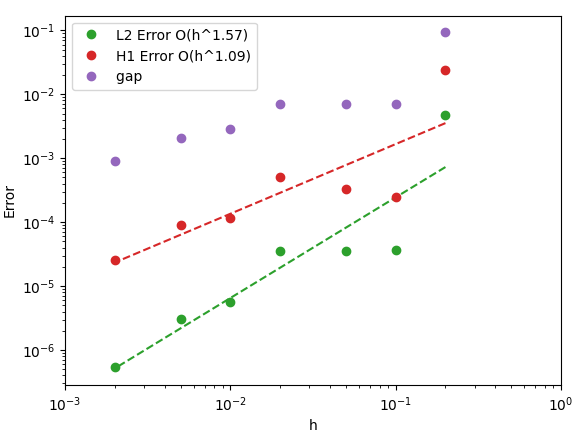
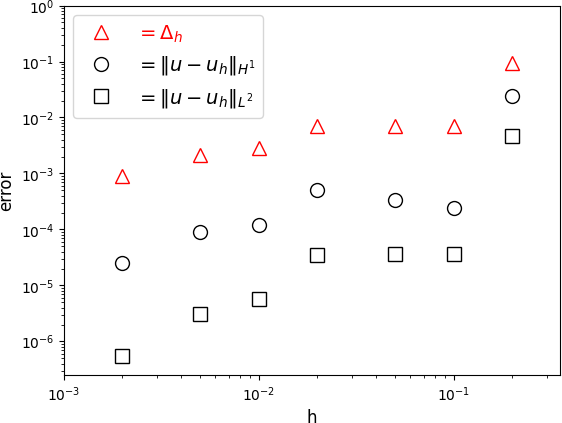
examples/parabola1d.py generates Figure 2 (right)

diff --git a/paper/viamr.tex b/paper/viamr.tex
@@ -123,21 +123,20 @@ be the admissible subset, closed and convex in $\cX$.  For $f\in L^2(\Omega)$, t
 \int_\Omega \nabla u \cdot \nabla(v - u) \ge \int_\Omega f(v - u) \quad \text{ for all } v \in \cK.
 \end{equation}
 
-Section \ref{sec:vifem} will recall some of the theory of such VIs, and of their finite element (FE) approximation.  However, we will generalize from elliptic bilinear forms, as in \eqref{eq:classical:vi}, to coercive nonlinear operators over Banach spaces.  A conforming FE approximation $u_h$ of the VI solves the same weak form, but now over a finite-dimensional admissible set constructed on a mesh $\cT_h$.  Similarly to Cea's lemma for PDEs \cite{ElmanSilvesterWathen2014}, the norm errors $\|u-u_h\|$ can be bounded \emph{a priori} by extending the Falk \cite{Falk1974} technique to nonlinear operators (Theorem \ref{thm:genfalk}).  These norm errors are controlled by the approximation properties of the FE space, but subject to additional VI-specific concerns regarding admissibility and the construction of the FE obstacle.
+In Section \ref{sec:vifem} we will recall some of the theory of such VIs, and their finite element (FE) approximation.  However, we will generalize from elliptic bilinear forms like \eqref{eq:classical:vi} to coercive nonlinear operators over Banach spaces.  A conforming FE approximation $u_h$ of the VI solves the same weak form, but now over a finite-dimensional admissible set constructed on a mesh $\cT_h$.  Similarly to Cea's lemma for PDEs \cite{ElmanSilvesterWathen2014}, the norm errors $\|u-u_h\|$ can be bounded \emph{a priori} by extending the Falk \cite{Falk1974} technique to nonlinear operators.  In fact, Theorem \ref{thm:genfalk} will show how norm errors are controlled by the approximation properties of the FE space, but also subject to VI-specific concerns regarding admissibility and the construction of the FE obstacle.
 
-Adaptive mesh refinement (AMR) uses \emph{a posteriori} information from a coarser-mesh calculation to strategically add elements to a mesh, to reduce numerical error.  For VI problems the geometrical error in locating the free-boundary $\Gamma_u$ on a given mesh can, by itself, influence the global error $\|u-u_h\|$.  This fact, somewhat acknowledged in the FE literature for VIs \cite{Suttmeier2008}, is clearly seen in the following 1D example.
+Adaptive mesh refinement (AMR) uses \emph{a posteriori} information from the numerical solution over a given mesh to strategically add elements to the mesh to reduce the  numerical error.  However, for VI problems the geometrical error in locating the free-boundary $\Gamma_u$ on a mesh can, by itself, influence the global error $\|u-u_h\|$.  This fact, somewhat acknowledged in the FE literature for VIs \cite{Suttmeier2008}, is clearly seen in the following 1D example.
 
 \begin{example} \label{example:oned} Suppose $\Omega = (-1,1)$, $\psi(x)=0.5 - x^2$, $f=0$, and $g=0$.  The exact solution $u$ of \eqref{eq:classical:vi} for this data is easily calculated.  Free boundaries are at $x_*=\pm(1-2^{-1/2})$ (Figure \ref{fig:parabola}).  For an FE approximation using piecewise-linear elements and a uniform mesh, let $\Delta_h$ be the minimum distance between a node and $x_*$.  Noting that $x_*$ are irrational, under uniform refinements $\Delta_h = O(h)$ is an irregular function of $h$.  Figure \ref{fig:parabola} (right) compares $H^1$ and $L^2$ norm errors to $\Delta_h$.  The erratic behavior of the norm errors closely follows the purely-geometrical free-boundary location error $\Delta_h$. \end{example}
 
 \begin{figure}[ht]
-\mbox{
+\noindent \mbox{
 \begin{minipage}[t]{0.45\textwidth}
 \input{tikz/parabola.tex}
 \end{minipage}
-\quad
-\begin{minipage}[t]{0.55\textwidth}
-\includegraphics[width=0.9\textwidth]{static/VIConvergence.png}
-% FIXME regenerate with labels ||u-u_h||_{H^1} = O(h^1.09), ||u-u_h||_{L^2} = O(h^1.57), \Delta_h
+\,
+\begin{minipage}[t]{0.53\textwidth}
+\includegraphics[width=\textwidth]{static/VIConvergence.png}
 \end{minipage}
 }
 \caption{A one-dimensional obstacle problem (left), for which the geometrical free-boundary location error $\Delta_h$ predicts norm error $\|u-u_h\|$ behavior (right).}

diff --git a/examples/parabola1d.py b/examples/parabola1d.py
@@ -1,0 +1,79 @@
+import numpy as np
+import matplotlib.pyplot as plt
+from firedrake import *
+
+MeshSizes = [10, 20, 40, 100, 200, 400, 1000]
+
+h = [2.0 / i for i in MeshSizes]
+errors = {"gap": [], "H1": [], "L2": []}
+
+# exact free boundaries
+b = (2 - (2) ** 0.5) * 0.5
+a = -b
+
+for i in MeshSizes:
+    mesh = IntervalMesh(i, -1, 1)
+    V = FunctionSpace(mesh, "CG", 1)
+
+    x = SpatialCoordinate(mesh)[0]
+    psi_ufl = 0.5 - x ** 2
+    lb = Function(V).interpolate(psi_ufl)
+    bcs = DirichletBC(V, Constant(0.0), (1, 2))
+
+    u = Function(V)
+    v = TestFunction(V)
+    F = inner(grad(u), grad(v)) * dx
+
+    sp = {  # "snes_monitor": None,
+        "snes_type": "vinewtonrsls",
+        "snes_converged_reason": None,
+        "snes_max_it": 1000,
+        "snes_rtol": 1.0e-8,
+        "snes_atol": 1.0e-12,
+        "snes_stol": 1.0e-12,
+        "snes_vi_zero_tolerance": 1.0e-12,
+        "snes_linesearch_type": "basic",
+        "ksp_type": "preonly",
+        "pc_type": "lu",
+        "pc_factor_mat_solver_type": "mumps",
+    }
+    problem = NonlinearVariationalProblem(F, u, bcs)
+    solver = NonlinearVariationalSolver(
+        problem, solver_parameters=sp, options_prefix="s"
+    )
+    ub = Function(V).interpolate(Constant(PETSc.INFINITY))
+    solver.solve(bounds=(lb, ub))
+
+    leftline = ((0.5 - a ** 2) / (a + 1)) * (x + 1)
+    rightline = -((0.5 - b ** 2) / (1 - b)) * (x - 1)
+    u_exact_ufl = conditional(
+        le(x, a), leftline, conditional(ge(x, b), rightline, psi_ufl)
+    )
+    uexact = Function(V).interpolate(u_exact_ufl)
+
+    gap = np.min(np.abs(mesh.topology_dm.getCoordinates().array - b))
+    errors["gap"].append(gap)
+    errors["H1"].append(errornorm(u, uexact, norm_type="H1"))
+    errors["L2"].append(errornorm(u, uexact, norm_type="L2"))
+
+h1label = "$=\|u-u_h\|_{H^1}$"
+l2label = "$=\|u-u_h\|_{L^2}$"
+plt.loglog(h, errors["gap"], "^", ms=10.0, color="r", mfc="w", label="$=\Delta_h$")
+plt.loglog(h, errors["H1"], "o", ms=10.0, color="k", mfc="w", label=h1label)
+plt.loglog(h, errors["L2"], "s", ms=10.0, color="k", mfc="w", label=l2label)
+
+# p_H1 = np.polyfit(np.log(h), np.log(errors["H1"]), 1)
+# h1label = "$=\|u-u_h\|_{H^1} = O(h^{%.2f})$" % p_H1[0]
+# p_L2 = np.polyfit(np.log(h), np.log(errors["L2"]), 1)
+# l2label = "$=\|u-u_h\|_{L^2} = O(h^{%.2f})$" % p_L2[0]
+# plt.loglog(h, np.exp(p_H1[0] * np.log(h) + p_H1[1]), "--", lw=0.5, color="k")
+# plt.loglog(h, np.exp(p_L2[0] * np.log(h) + p_L2[1]), "--", lw=0.5, color="k")
+
+plt.axis([0.001, 0.35, 2.5e-7, 1.0])
+plt.xlabel("h", fontsize=12.0)
+plt.ylabel("error", fontsize=12.0)
+plt.legend(fontsize=14.0, loc="upper left", labelcolor="linecolor")
+
+outname = "parabola1d.png"
+print(f"saving figure in {outname} ...")
+plt.savefig(outname, bbox_inches="tight")
